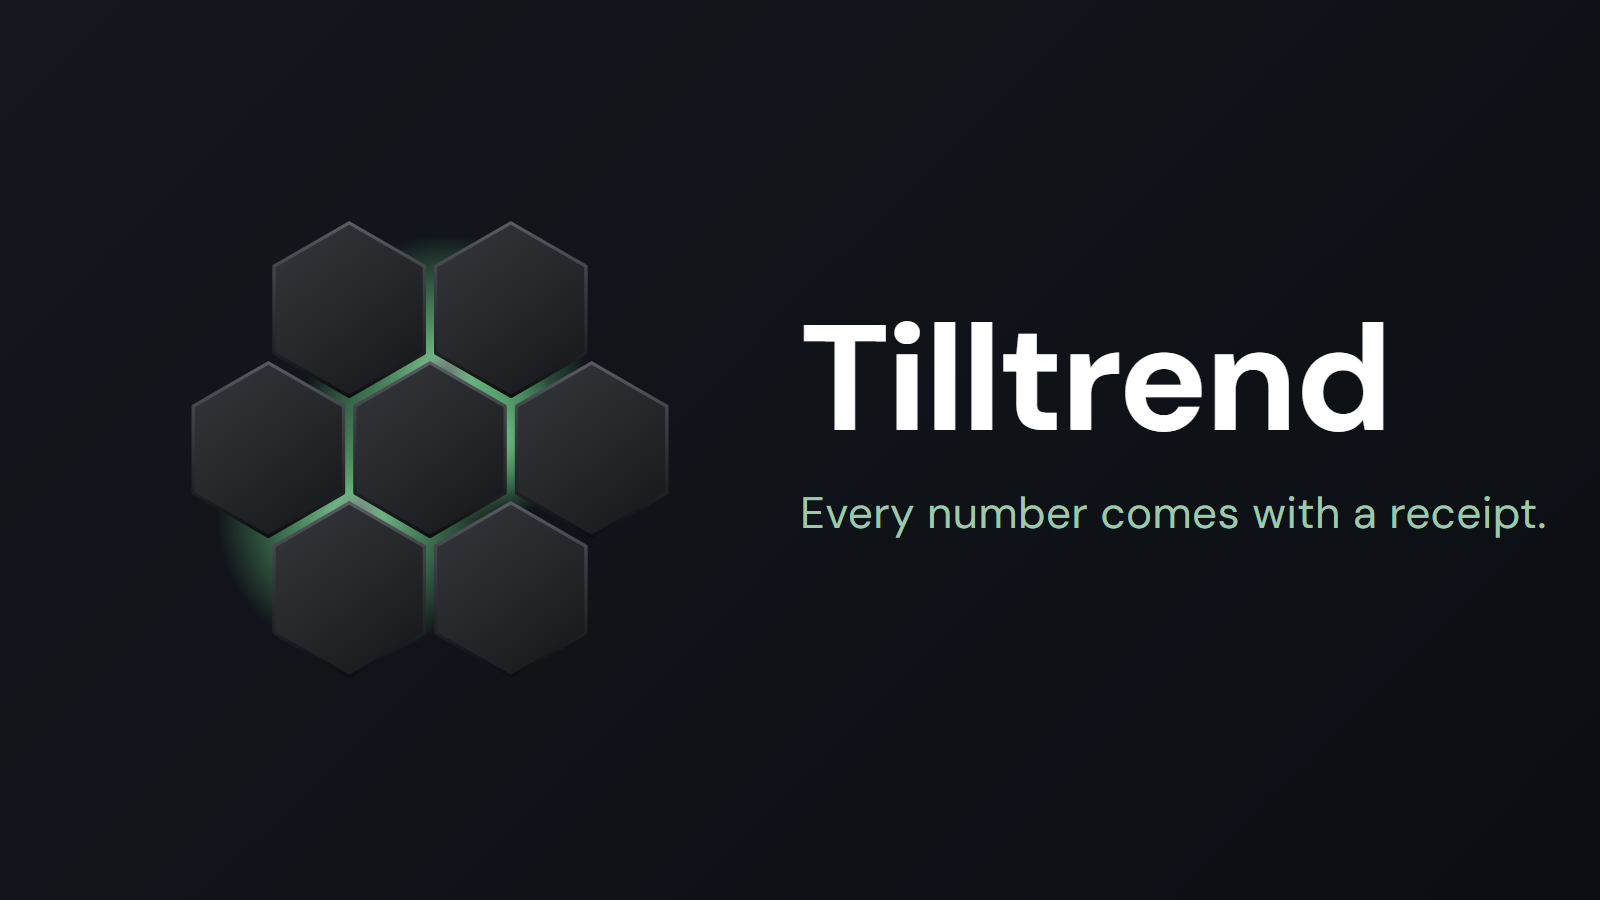
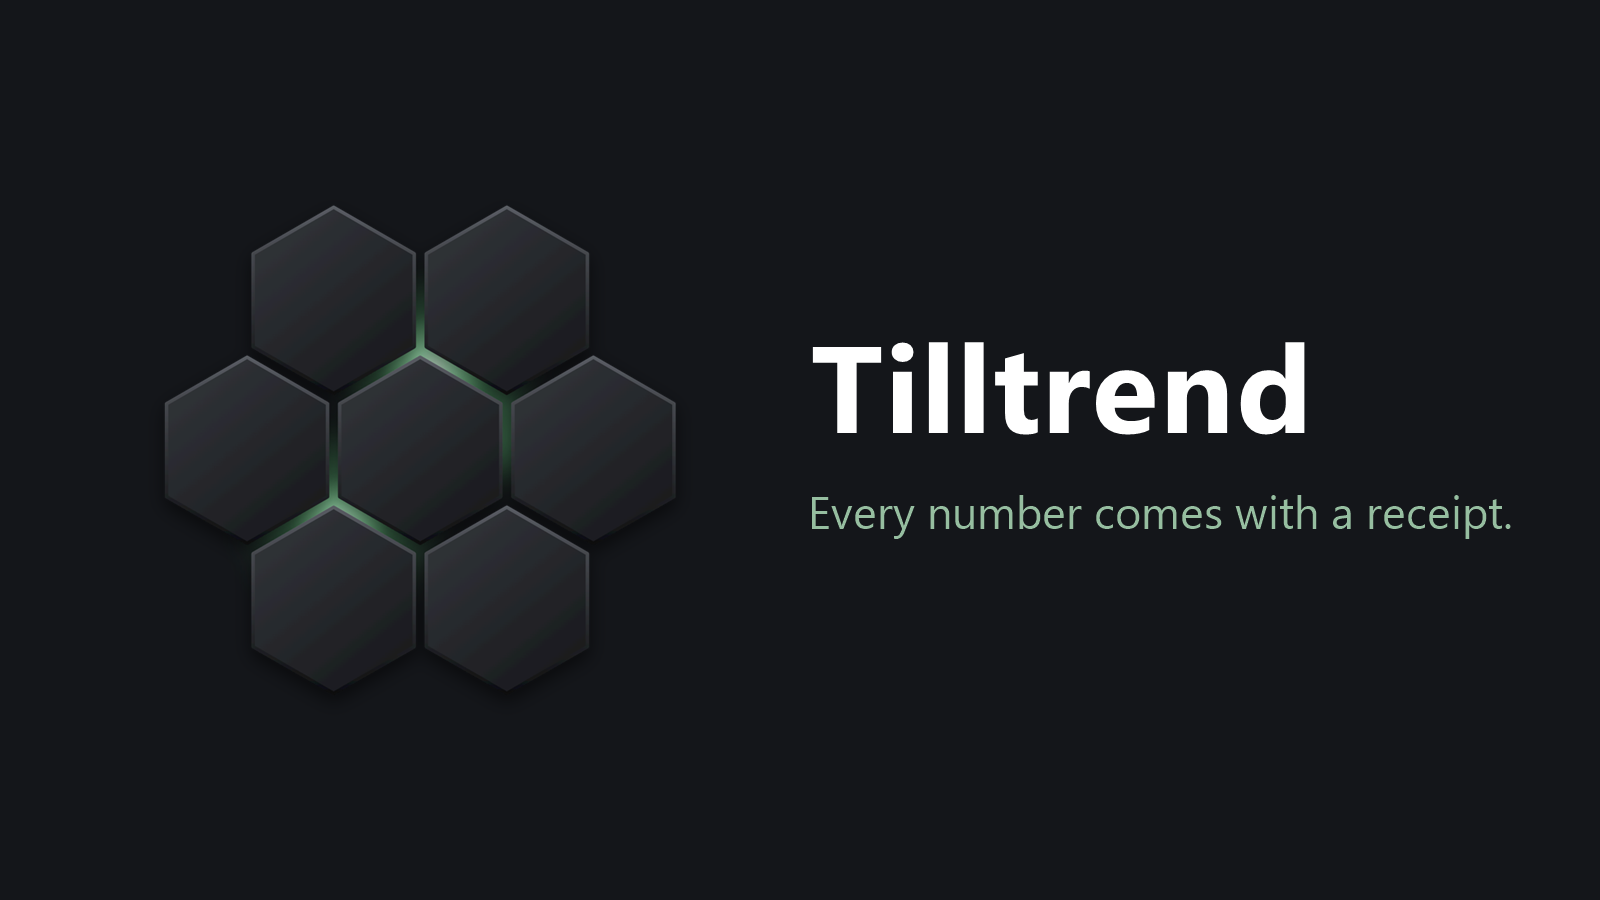
Publish site (source: tilltrend@4b0c6a0 feat(site): glow rests muted like the feature image; scroll flicks it)

diff --git a/cine.js b/cine.js
@@ -104,12 +104,17 @@
     }
     tag.style.opacity = String(1 - seg(s, 0.3, 0.42));
 
-    /* B · seam glow condenses into the firefly point (s 0.30–0.58) */
+    /* B · seam glow: rests at the feature image's MUTED level; scrolling wakes
+       it with two firefly flicks (founder call 2026-07-18: flick, then return
+       to muted, never settle brighter), then it condenses into the firefly
+       point (s 0.30–0.58) exactly as before, fading from the muted level. */
+    var flick = 0.45 * bump(s, 0.07, 0.035) + 0.45 * bump(s, 0.15, 0.04);
+    var glowLevel = Math.min(1, 0.55 + flick);
     var g = ioCubic(seg(s, 0.3, 0.58));
     glows.forEach(function (el) {
       var cx = +(el.getAttribute("cx") || 55), cy = +(el.getAttribute("cy") || -10);
       el.style.transform = "translate(" + (GLOW_TO.x - cx) * g + "px," + (GLOW_TO.y - cy) * g + "px) scale(" + lerp(1, 0.1, g) + ")";
-      el.style.opacity = String(1 - g);
+      el.style.opacity = String(glowLevel * (1 - g));
     });
 
     /* C · hexes disperse outward, staggered, center last (s 0.36–0.76) */

diff --git a/style.css b/style.css
@@ -445,6 +445,9 @@ footer.site nav { display: flex; flex-wrap: wrap; gap: 0.25rem 1.1rem; margin: 0
   transform-box: fill-box; transform-origin: center;
   will-change: transform, opacity;
 }
+/* rest state matches the feature image: the glow sits muted; only the firefly
+   flicks pulse it (cine.js). This is also the static no-JS fallback look. */
+.cine-hex .glow { opacity: 0.55; }
 .cine-copy { max-width: 34rem; }
 .cine-word {
   font-weight: 700; font-size: clamp(2.6rem, 7vw, 4.8rem);